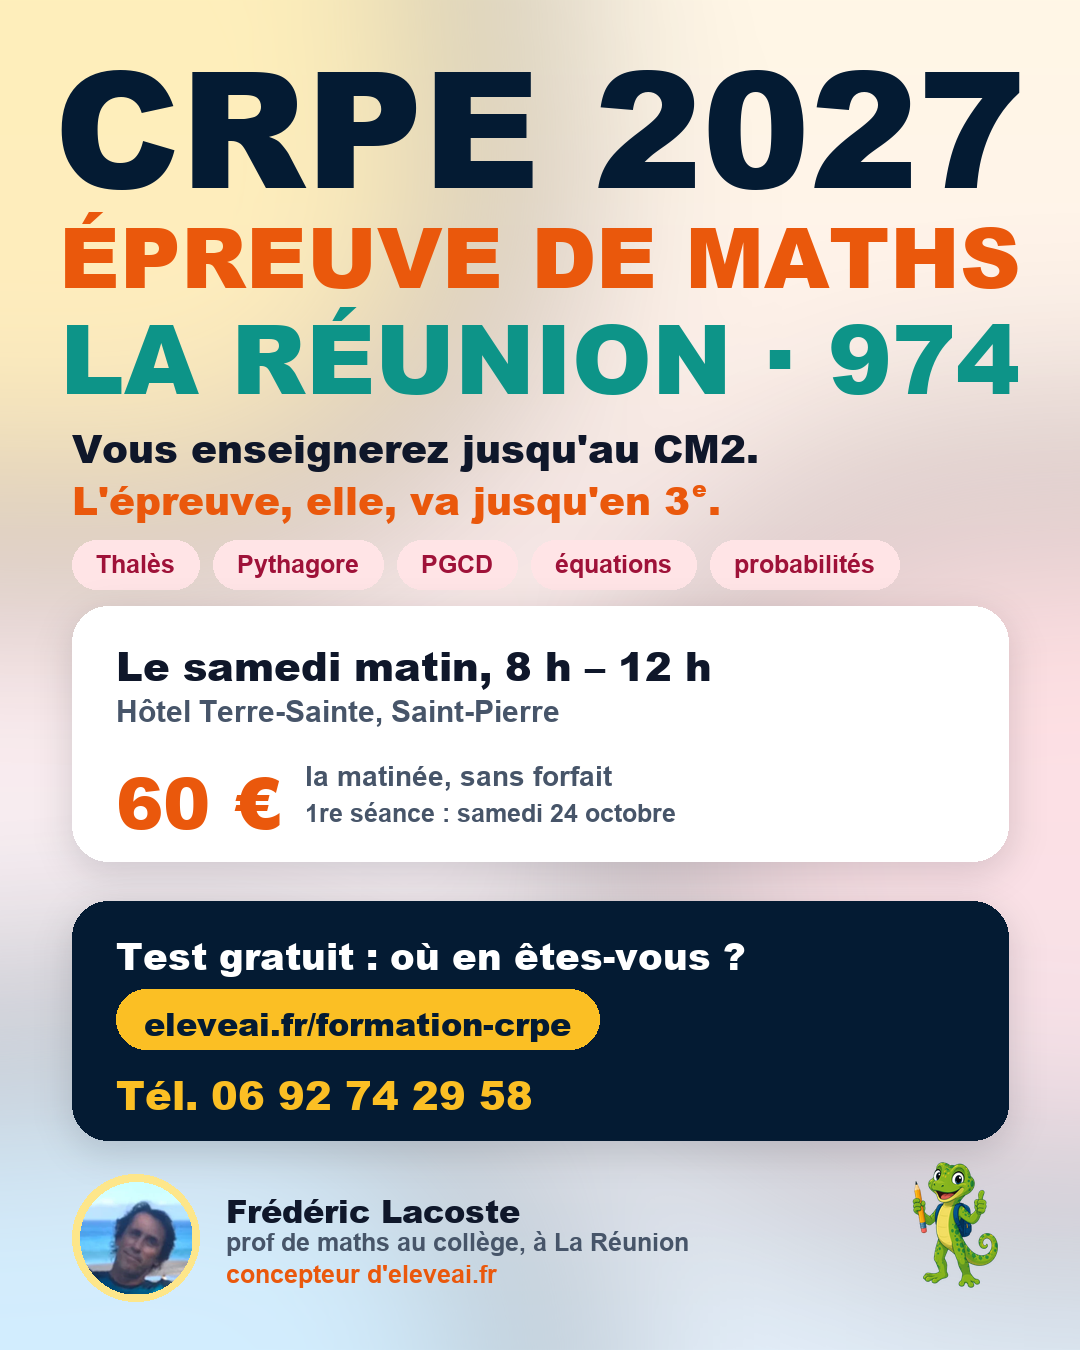
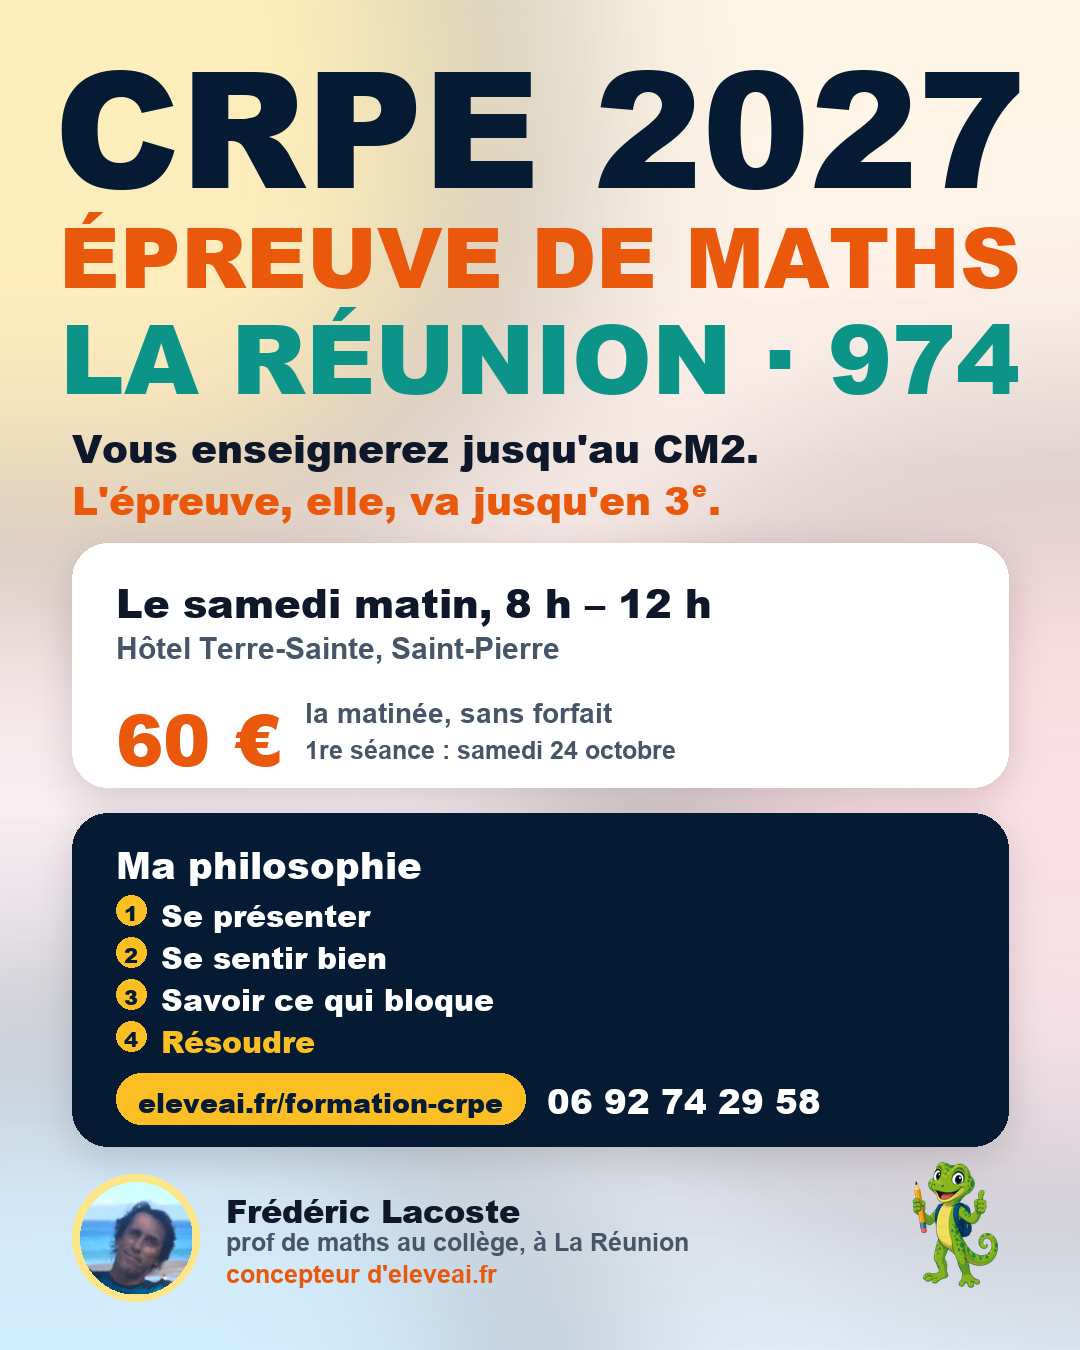
Pub CRPE : l'encadre bleu porte la philosophie de Frederic, plus le test
Se presenter, se sentir bien, savoir ce qui bloque, resoudre — mot pour mot.

Changed region(s): [[0.0611, 0.3733, 0.9472, 0.8711]]

diff --git a/scripts/pub-crpe-instagram.py b/scripts/pub-crpe-instagram.py
@@ -145,19 +145,24 @@ def composer(h):
     d.text((x3 + 3 + largeur(d, "e", NOIR(k(26))), y), ".", font=NOIR(k(46)), fill=ORANGE)
     y += k(80)
 
-    # ── Les notions de collège qui tombent
-    x = marge
-    for n in ["Thalès", "Pythagore", "PGCD", "équations", "probabilités"]:
-        f = GRAS(k(30))
-        if x + largeur(d, n, f) + 52 > W - marge:
-            x = marge
-            y += k(70)
-        x, _ = pilule(d, x, y, n, f, (255, 228, 230), (159, 18, 57), pad_x=24, pad_y=12)
-        x += 14
-    y += k(100) if story else k(78)
+    # ── Les notions de collège qui tombent — STORY SEULEMENT depuis que
+    # l'encadré bleu porte le déroulé : le post (4:5) n'a plus la place, et
+    # l'accroche y dit déjà « jusqu'en 3e ».
+    if story:
+        x = marge
+        for n in ["Thalès", "Pythagore", "PGCD", "équations", "probabilités"]:
+            f = GRAS(k(30))
+            if x + largeur(d, n, f) + 52 > W - marge:
+                x = marge
+                y += k(70)
+            x, _ = pilule(d, x, y, n, f, (255, 228, 230), (159, 18, 57), pad_x=24, pad_y=12)
+            x += 14
+        y += k(84)
+    else:
+        y += k(4)
 
     # ── La carte de l'offre
-    haut_carte = k(300)
+    haut_carte = k(288)
     carte(im, (marge, y, W - marge, y + haut_carte))
     d = ImageDraw.Draw(im)
     cx = marge + 44
@@ -167,18 +172,33 @@ def composer(h):
     px = cx + largeur(d, "60 € ", NOIR(k(84)))
     d.text((px, y + k(182)), "la matinée, sans forfait", font=GRAS(k(34)), fill=GRIS)
     d.text((px, y + k(228)), "1re séance : samedi 24 octobre", font=GRAS(k(30)), fill=GRIS)
-    y += haut_carte + (56 if story else 40)
+    y += haut_carte + (40 if story else 26)
 
     # ── L'action : le seul bloc sombre
     # ⭐ 15/10 : le TÉLÉPHONE y entre (« il manque le numéro de téléphone »).
     # C'est un appel qui a lancé cette pub : on donne le numéro, pas seulement
     # le lien, et en blanc sur le bloc sombre, là où l'œil finit.
-    haut_cta = k(282)
+    # ⭐ 15/10, encore : « en encadré bleu il ne faut pas mettre test gratuit,
+    # il faut mettre le déroulé et la philosophie de la séance ».
+    haut_cta = k(392)
     carte(im, (marge, y, W - marge, y + haut_cta), fond_c=NAVY + (255,))
     d = ImageDraw.Draw(im)
-    d.text((cx, y + k(34)), "Test gratuit : où en êtes-vous ?", font=NOIR(k(44)), fill=BLANC)
-    pilule(d, cx, y + k(104), "eleveai.fr/formation-crpe", NOIR(k(38)), AMBRE, NAVY, pad_x=28, pad_y=14)
-    d.text((cx, y + k(194)), "Tél. 06 92 74 29 58", font=NOIR(k(48)), fill=AMBRE)
+    # ⭐ SA PHILOSOPHIE, MOT POUR MOT (Frédéric, 15/10) : « ce présenter, ce
+    # sentir bien, savoir ce qui bloque, résoudre ». Quatre temps, dans cet
+    # ordre — ne pas les reformuler.
+    d.text((cx, y + k(30)), "Ma philosophie", font=NOIR(k(44)), fill=BLANC)
+    temps = ["Se présenter", "Se sentir bien", "Savoir ce qui bloque", "Résoudre"]
+    for i, l in enumerate(temps):
+        ly = y + k(96) + i * k(50)
+        r = k(18)
+        d.ellipse((cx, ly + k(2), cx + 2 * r, ly + k(2) + 2 * r), fill=AMBRE)
+        f = NOIR(k(25))
+        n = str(i + 1)
+        d.text((cx + r - largeur(d, n, f) / 2, ly + k(4)), n, font=f, fill=NAVY)
+        d.text((cx + 2 * r + k(18), ly - k(2)), l, font=NOIR(k(36)), fill=BLANC if i < 3 else AMBRE)
+    fin, _ = pilule(d, cx, y + k(306), "eleveai.fr/formation-crpe", NOIR(k(32)), AMBRE, NAVY,
+                    pad_x=22, pad_y=12)
+    d.text((fin + k(26), y + k(310)), "06 92 74 29 58", font=NOIR(k(40)), fill=BLANC)
     y += haut_cta
 
     # ── La signature : un visage, et Ti Margo
@@ -244,10 +264,11 @@ def composer_partage():
     d.text((cx, 250), "1re séance : sam. 24 oct.", font=GRAS(24), fill=GRIS)
     carte(im, (x0, 330, x1, LH - 40), rayon=28, fond_c=NAVY + (255,))
     d = ImageDraw.Draw(im)
-    d.text((cx, 356), "Test gratuit", font=NOIR(32), fill=BLANC)
-    d.text((cx, 400), "15 min pour savoir", font=GRAS(24), fill=(203, 213, 225))
-    d.text((cx, 430), "où vous en êtes", font=GRAS(24), fill=(203, 213, 225))
-    d.text((cx, 490), "06 92 74 29 58", font=NOIR(34), fill=AMBRE)
+    # Sa philosophie, comme sur le post (15/10) — plus de « Test gratuit » ici.
+    d.text((cx, 350), "Ma philosophie", font=NOIR(30), fill=BLANC)
+    for i, l in enumerate(["1. Se présenter", "2. Se sentir bien", "3. Savoir ce qui bloque", "4. Résoudre"]):
+        d.text((cx, 392 + i * 30), l, font=GRAS(25), fill=(226, 232, 240))
+    d.text((cx, 522), "06 92 74 29 58", font=NOIR(34), fill=AMBRE)
     return im.convert("RGB")
 
 

diff --git a/pub/instagram/crpe/legende.md b/pub/instagram/crpe/legende.md
@@ -16,7 +16,7 @@ L'épreuve de maths porte sur l'école ET le collège : Thalès, Pythagore, PGCD
 
 📍 Le samedi matin, 8 h – 12 h, à l'Hôtel Terre-Sainte (Saint-Pierre)
 💶 60 € la matinée, café compris, sans forfait : vous payez les samedis où vous venez
-✍ Vous écrivez, je corrige vos copies, on recommence
+🧭 Ma philosophie : se présenter, se sentir bien, savoir ce qui bloque, résoudre
 🚀 Première séance le samedi 24 octobre, 8 h – 12 h : une vraie matinée de travail, avec une épreuve d'entrée corrigée sur place (et on peut nous rejoindre en cours d'année)
 
 🎯 Pas sûr d'en avoir besoin ? Faites le test gratuit (15 min) : il vous dit quels thèmes travailler en priorité. Lien en bio.
